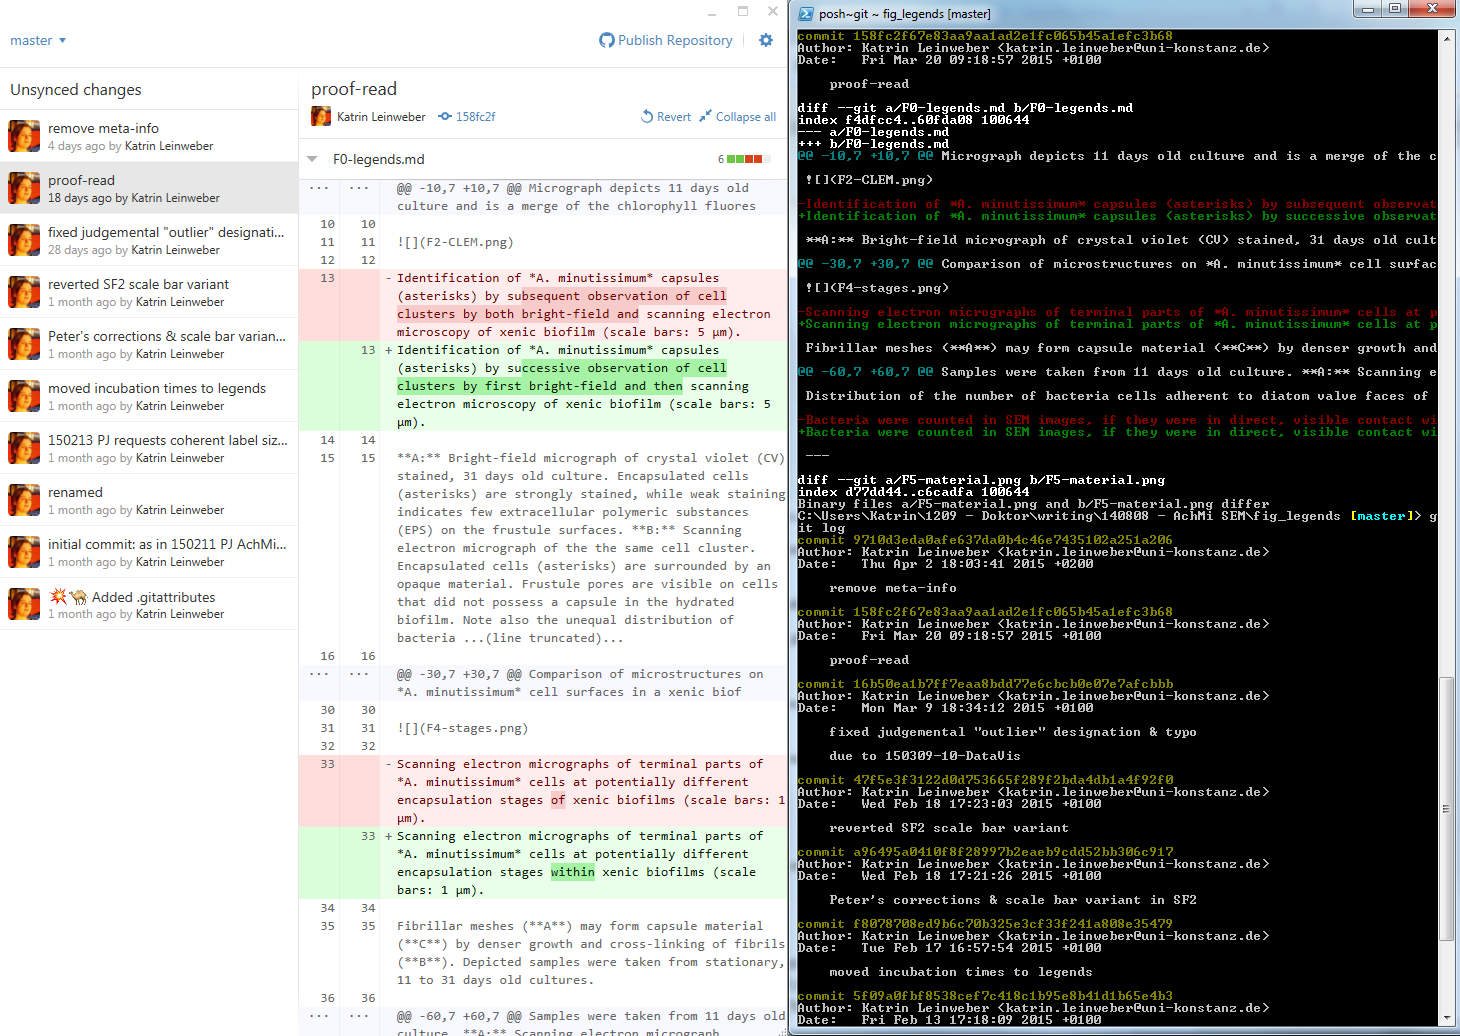
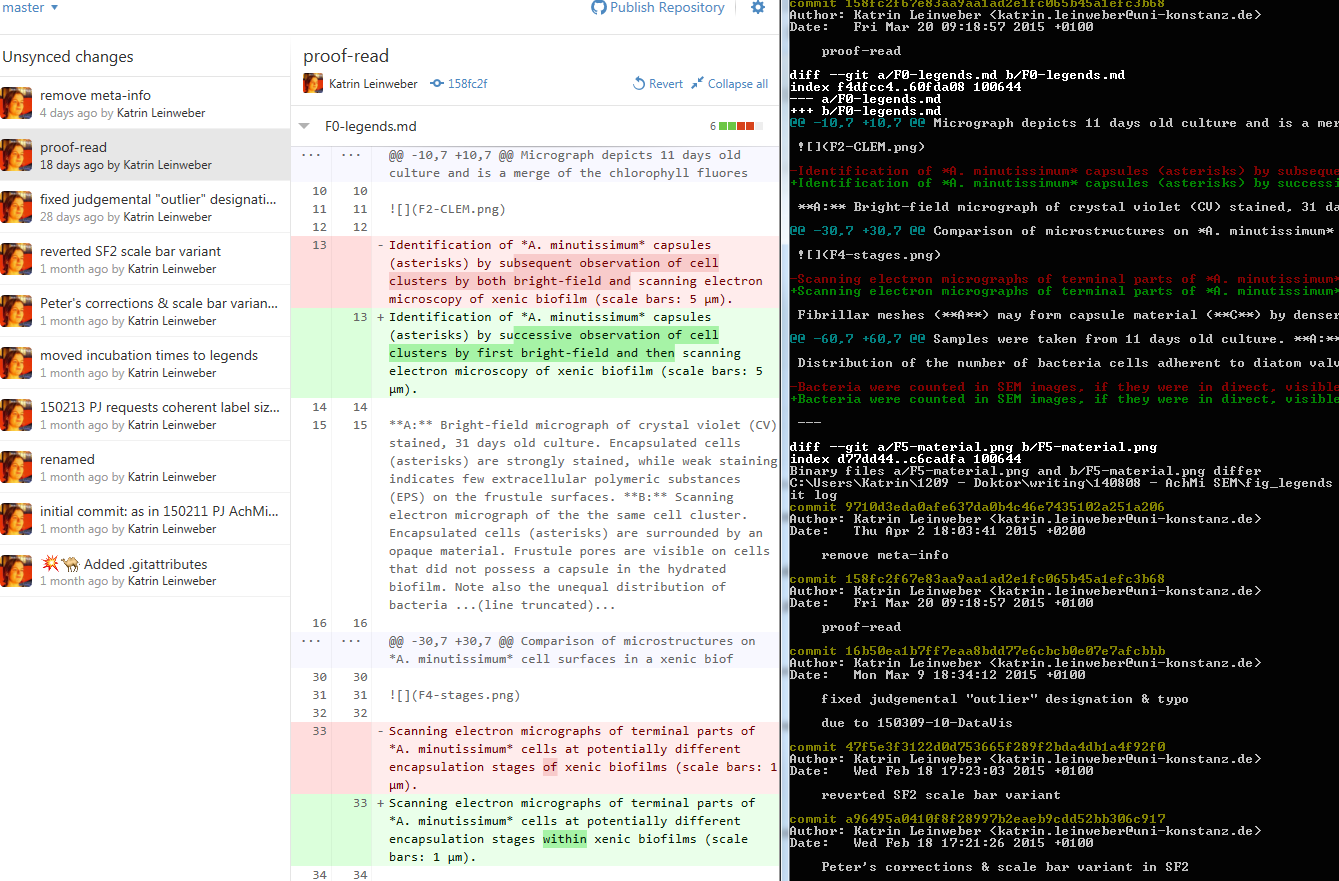
re-add staging area & crop image

diff --git a/README.md b/README.md
@@ -88,6 +88,14 @@ license: CC-BY-4.0 for own content; image attribution in titles
 
 [![](images/gitignore-or-not.png "Making Sense of Multiliteracy under the same context (2010-Oct-17, Sindhu Radhakrishnan")](http://edc.education.ed.ac.uk/sindhur/2010/10/17/visual-artefact/)
 
+### Basic vocabulary
+
+> - **staging area:** select changes to commit after files were saved to disk
+> - add commit message & description
+> - add .gitignore rules via context menu
+
+![](images/uncommitted-changes.png)
+
 ### Advanced vocabulary
 
 > - **branches:** different contexts in same repository
